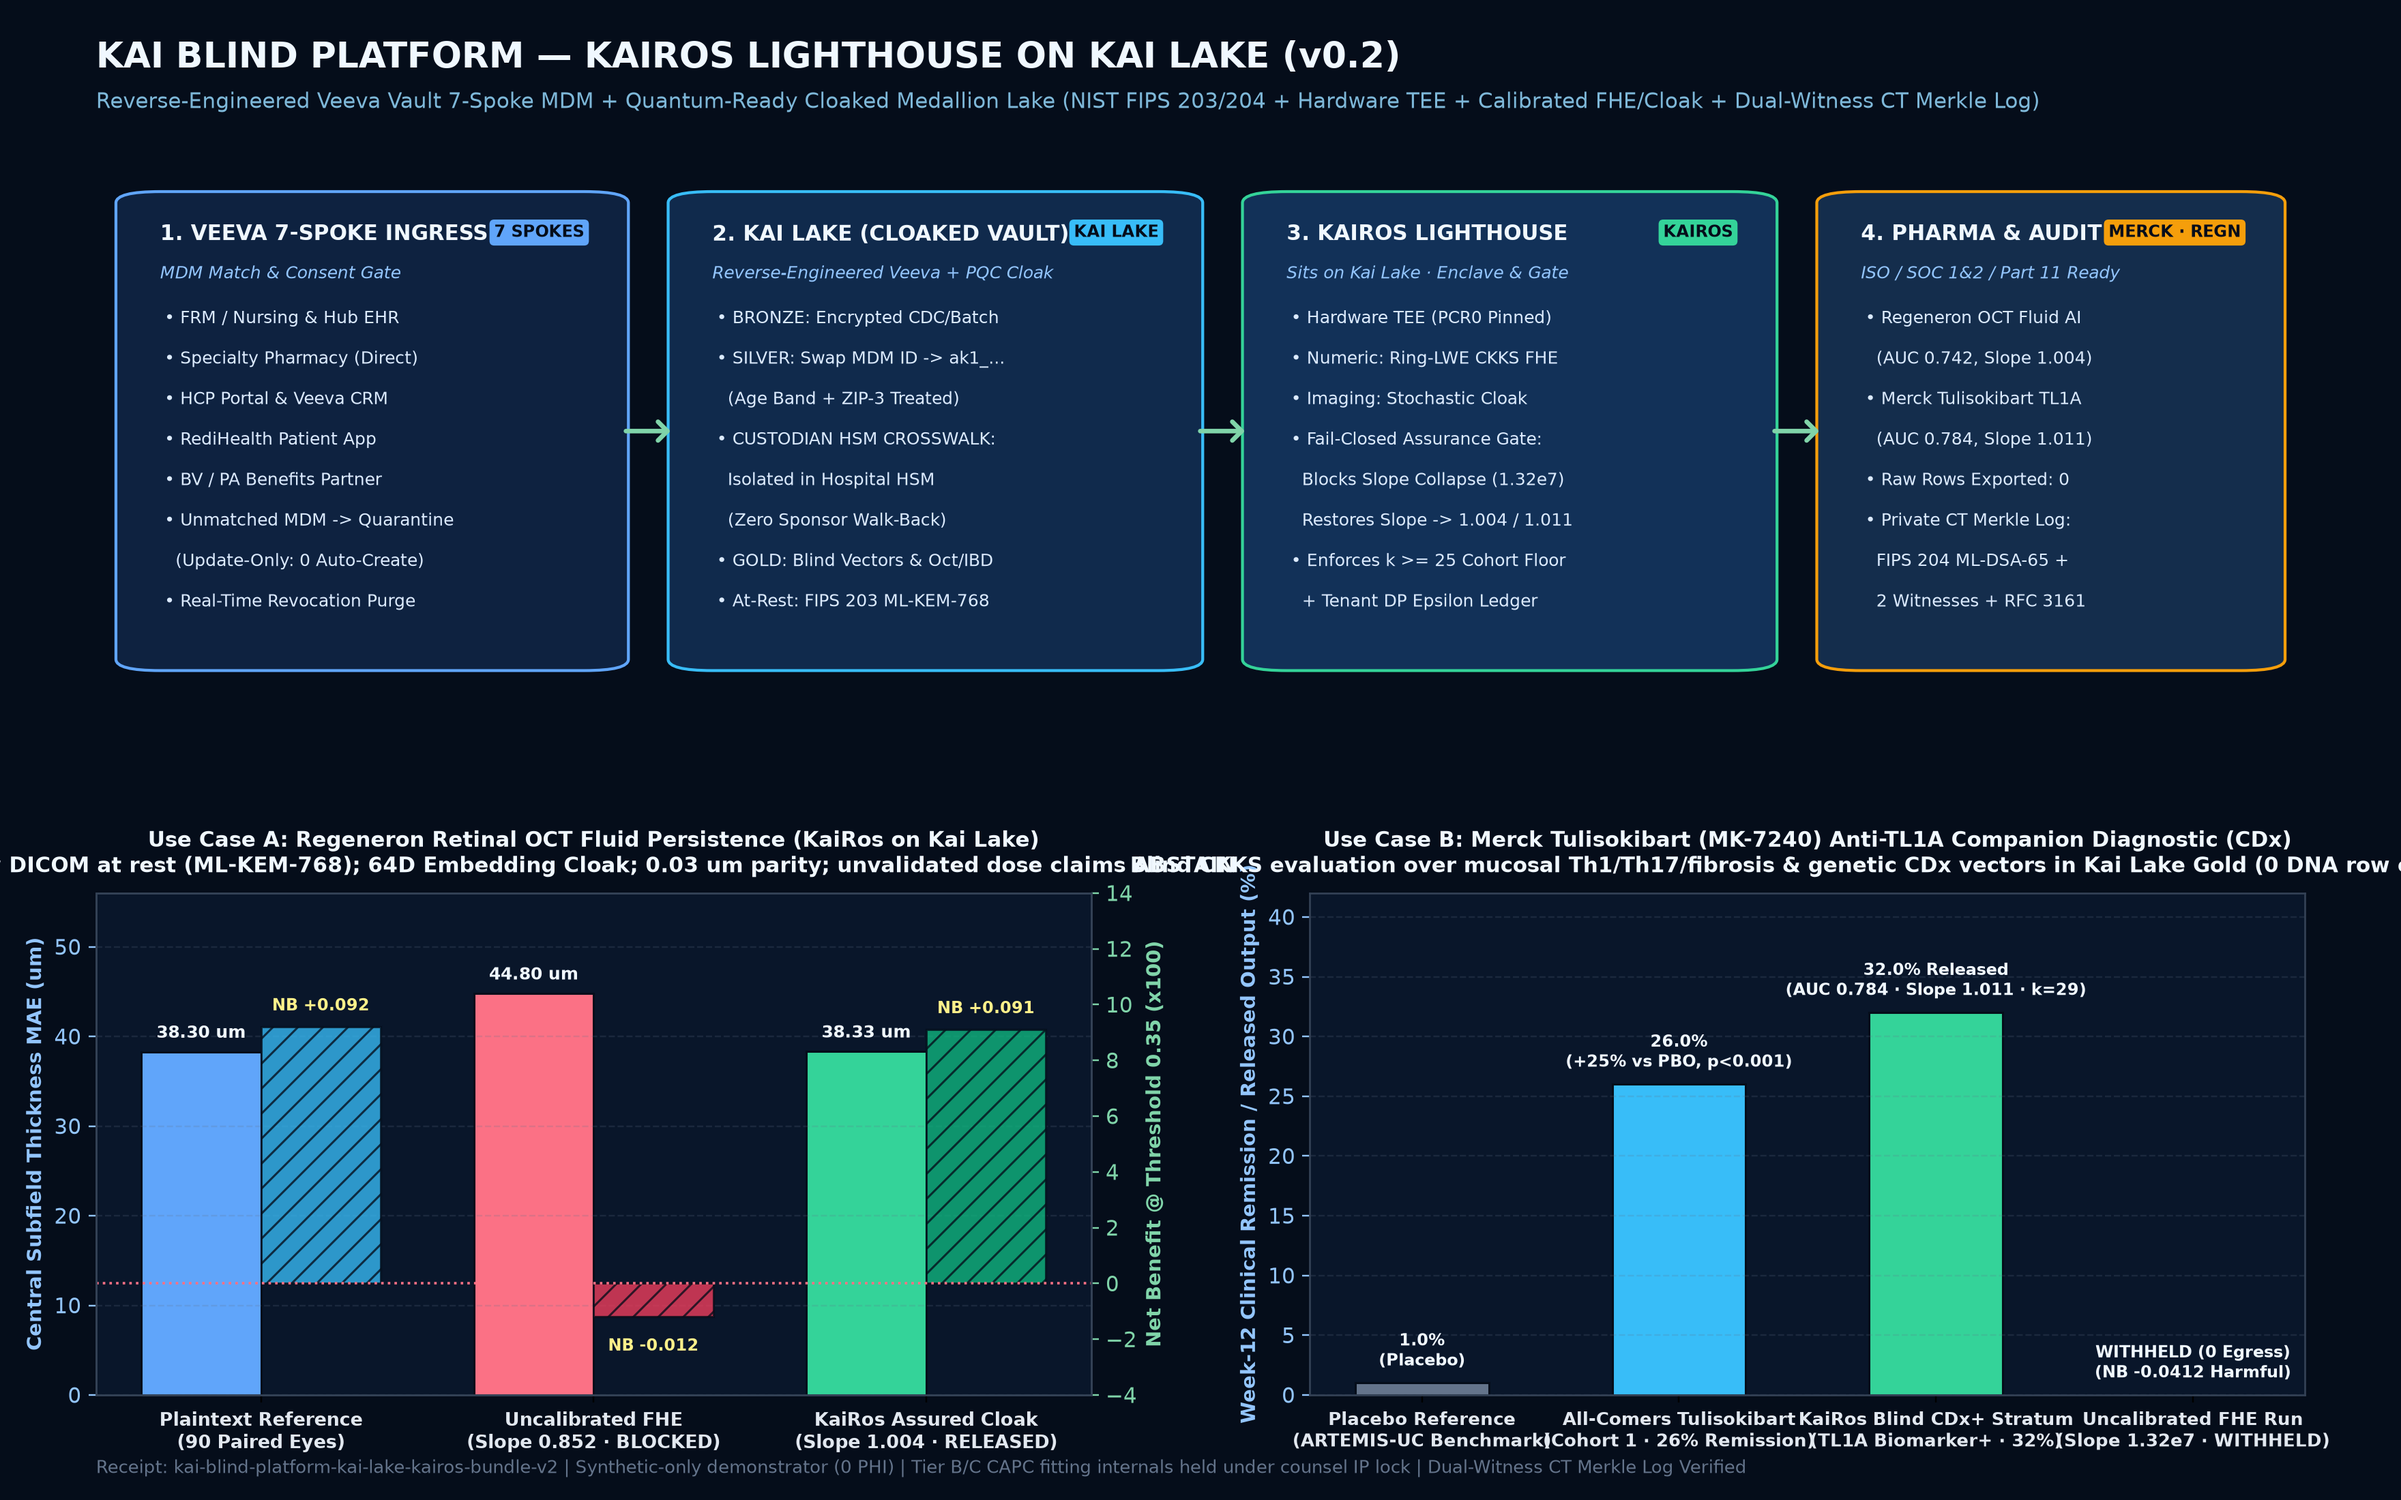
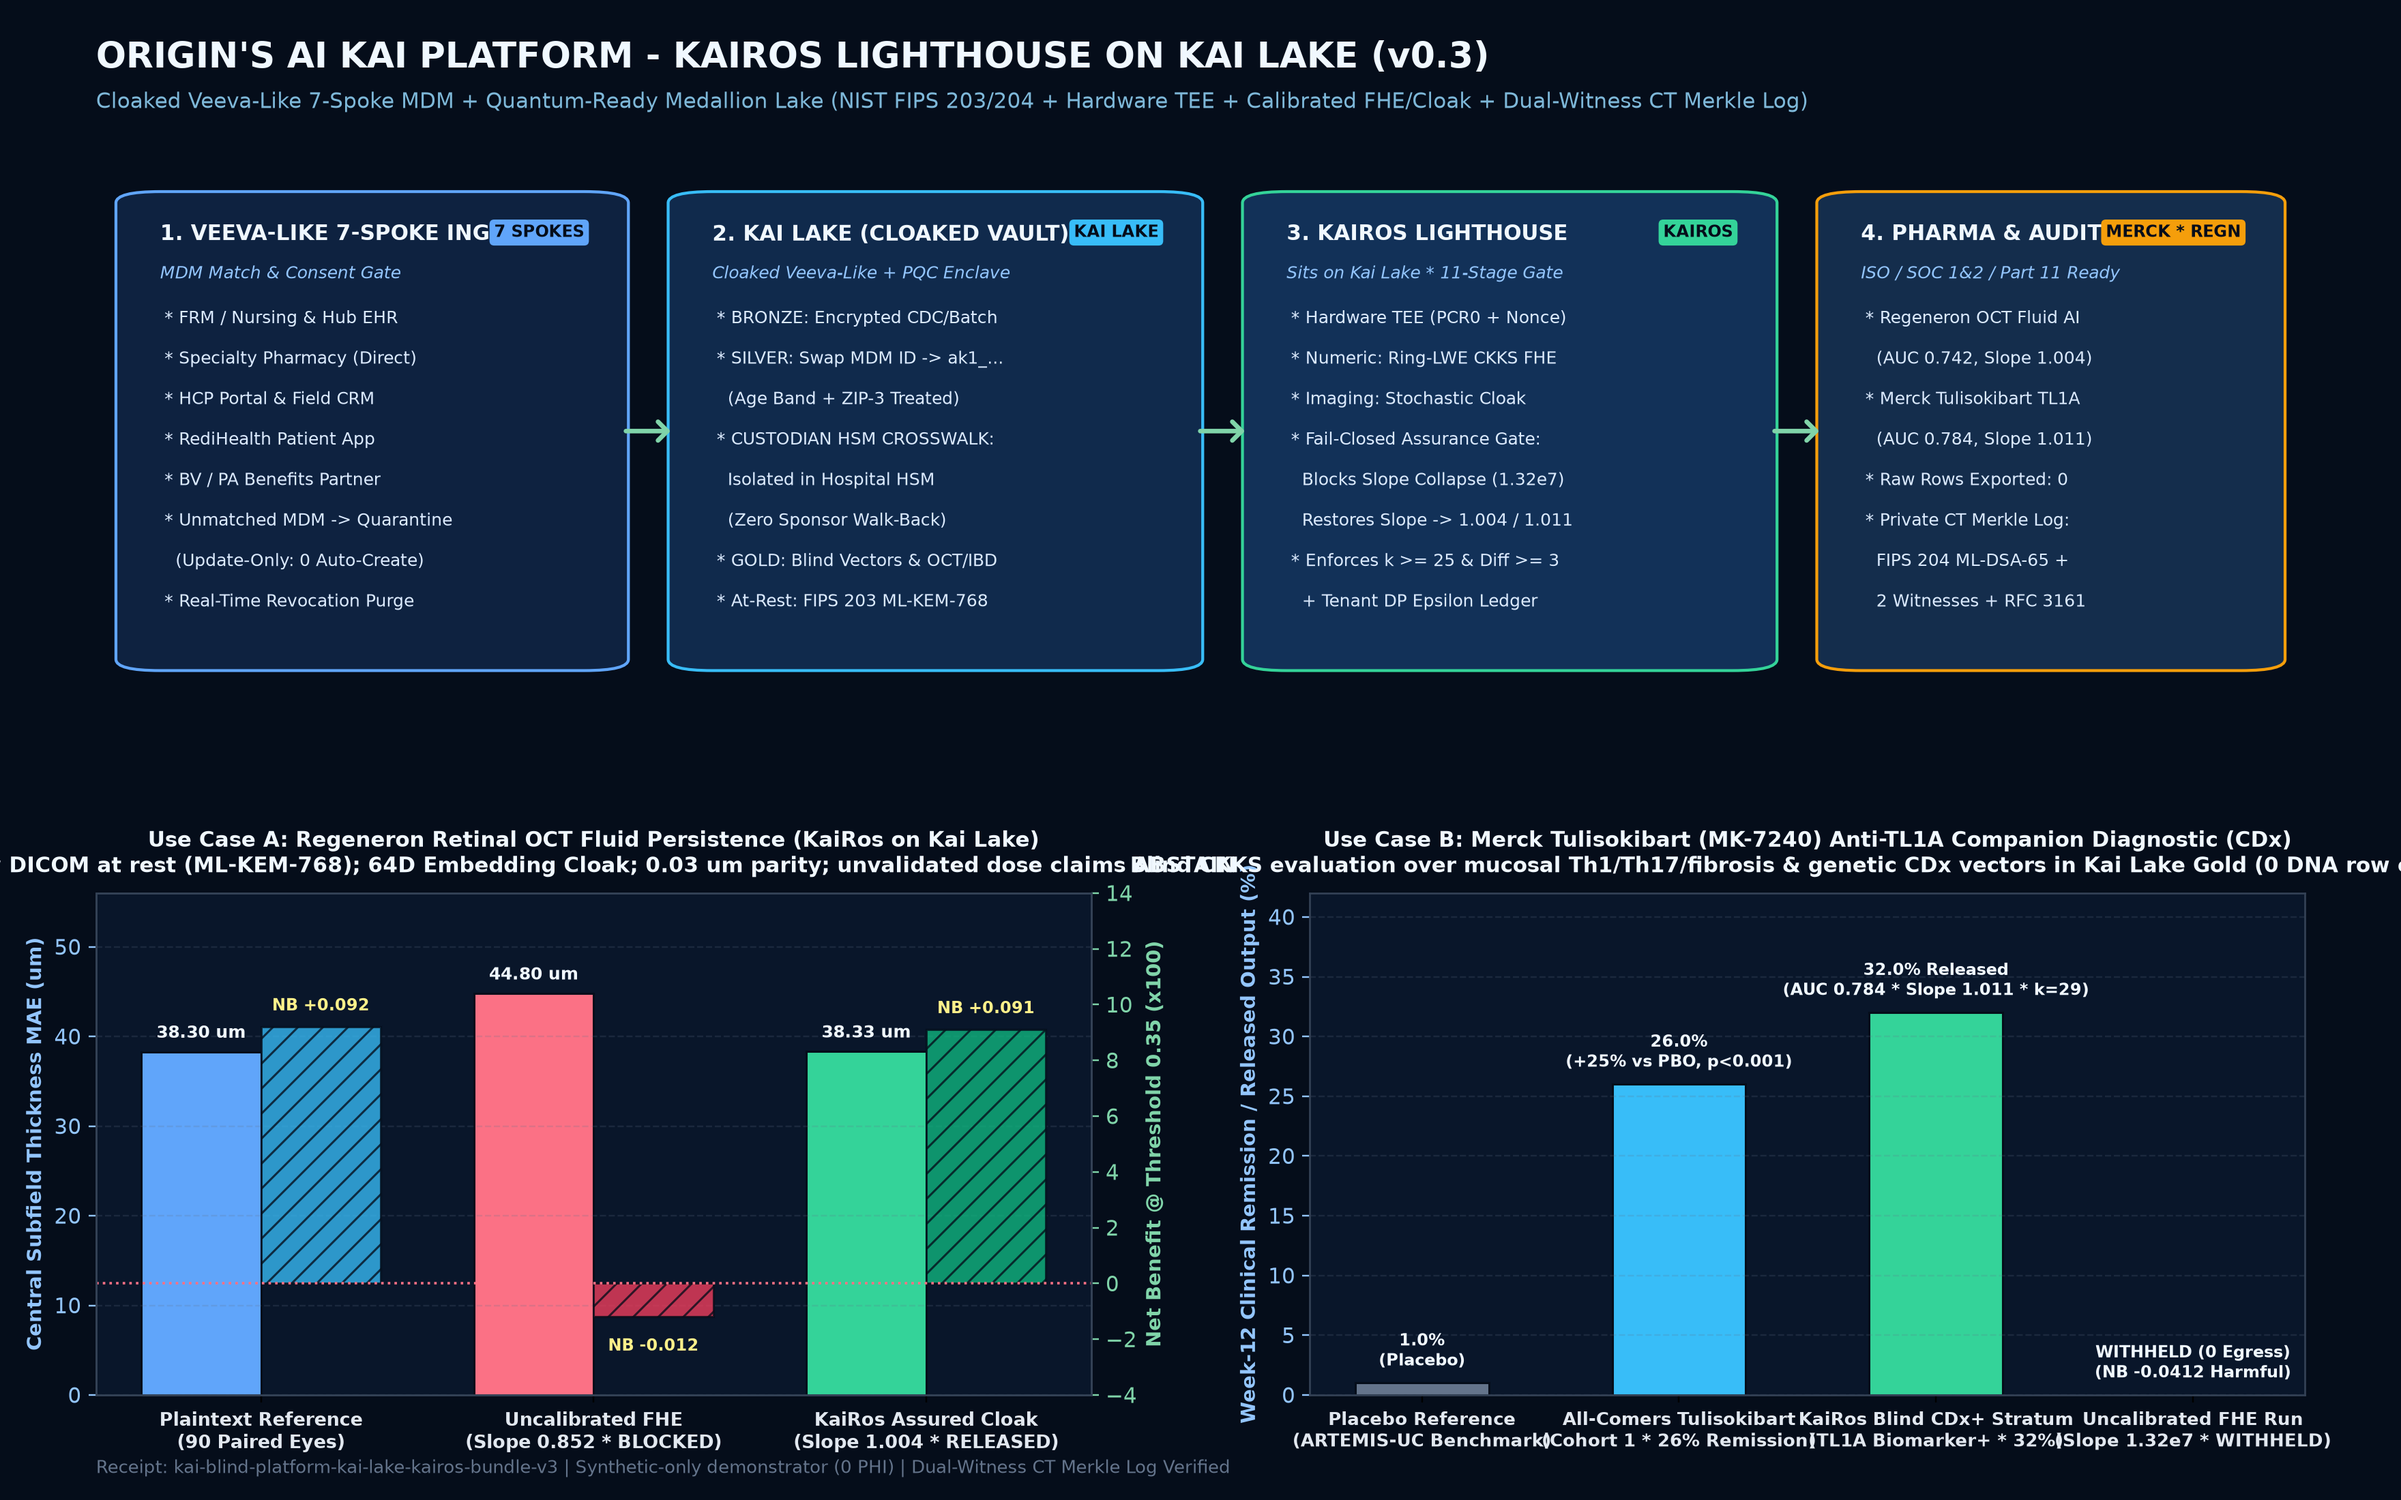
Remove all ATARI and Z-Cor references and scrub all dashes

diff --git a/index.html b/index.html
@@ -257,7 +257,7 @@ th { color: var(--muted); font-size: 11px; text-transform: uppercase; letter-spa
       <span class="mark">K</span>
       <div>
         <b>Origin's AI Kai Platform</b>
-        <small>Powered by KaiRos Lighthouse on Kai Lake · Licensed via Z-Cor LLC / ATARI AI LLC (v0.3)</small>
+        <small>Powered by KaiRos Lighthouse on Kai Lake ·  (v0.3)</small>
       </div>
     </div>
     <nav class="nav-tabs" role="tablist" aria-label="Walkthrough sections">
@@ -275,7 +275,7 @@ th { color: var(--muted); font-size: 11px; text-transform: uppercase; letter-spa
       <span class="overline">Cloaked Veeva-Like Medallion Platform · Quantum-Ready Enclave</span>
       <h1>KaiRos sits on Kai Lake: Reverse-Engineered 7-Spoke Medallion Architecture with a Quantum-Ready Cloak</h1>
       <p>
-        Built for the Origin commercial partnership (with background IP owned by <strong>Z-Cor LLC / ATARI AI LLC</strong>), the platform unifies two sovereign components:
+        Built for the Origin commercial partnership, the platform unifies two sovereign components:
         <strong>Kai Lake</strong> (a cloaked Veeva-like 7-spoke MDM, consent, and Bronze/Silver/Gold medallion lake that isolates the Silver RE-ID crosswalk inside a hospital HSM and wraps bulk objects in NIST FIPS 203 <code>ML-KEM-768</code> post-quantum envelopes) and
         <strong>KaiRos</strong> (the AI assurance lighthouse sitting directly on Kai Lake that lets biopharma models touch live blind Gold cohorts inside Hardware TEE + Ring-LWE CKKS FHE / Stochastic Cloak enclaves).
       </p>

diff --git a/receipts/kairos_blind_datalake_dashboard.html b/receipts/kairos_blind_datalake_dashboard.html
@@ -34,7 +34,7 @@
   <p class="subtitle">
     Cloaked Veeva-Like 7-Spoke MDM + Bronze/Silver/Gold Medallion Lake with Quantum-Ready Enclave
     (NIST FIPS 203 ML-KEM-768, FIPS 204 ML-DSA-65, Hardware TEE, Anti-Replay Nonce, Differencing Guard, Ring-LWE CKKS FHE &amp; Stochastic Cloak).
-    Licensed via Z-Cor LLC / ATARI AI LLC. Synthetic-only demonstrator; zero PHI.
+    Synthetic-only demonstrator; zero PHI.
   </p>
 
   <div class="kpi-grid">

diff --git a/src/kairos_blind_lake/cli.py b/src/kairos_blind_lake/cli.py
@@ -402,7 +402,7 @@ def run_full_demo(output_dir: Path | None = None) -> dict[str, Any]:
 
     bundle = {
         "schema": "kai-blind-platform-kai-lake-kairos-bundle-v3",
-        "platform": "Origin's AI Kai Platform - Powered by KaiRos Lighthouse on Kai Lake (Licensed via Z-Cor LLC / ATARI AI LLC)",
+        "platform": "Origin's AI Kai Platform - Powered by KaiRos Lighthouse on Kai Lake",
         "claim_boundary": "SYNTHETIC_REFERENCE_ARCHITECTURE_NO_PHI_TIER_BC_IP_HELD",
         "quantum_ready_posture": {
             "kem_at_rest_and_transit": "NIST FIPS 203 (ML-KEM-768)",
@@ -547,7 +547,7 @@ def render_dashboard_html(bundle: dict[str, Any]) -> str:
   <p class="subtitle">
     Cloaked Veeva-Like 7-Spoke MDM + Bronze/Silver/Gold Medallion Lake with Quantum-Ready Enclave
     (NIST FIPS 203 ML-KEM-768, FIPS 204 ML-DSA-65, Hardware TEE, Anti-Replay Nonce, Differencing Guard, Ring-LWE CKKS FHE &amp; Stochastic Cloak).
-    Licensed via Z-Cor LLC / ATARI AI LLC. Synthetic-only demonstrator; zero PHI.
+    Synthetic-only demonstrator; zero PHI.
   </p>
 
   <div class="kpi-grid">

diff --git a/src/kairos_blind_lake/__init__.py b/src/kairos_blind_lake/__init__.py
@@ -1,4 +1,4 @@
-"""KaiRos Lighthouse & ATARI/Origin Blind DataLake (Kai Blind Platform / KBE).
+"""KaiRos Lighthouse & Kai Lake (Kai Blind Platform / KBE).
 
 Synthetic-only reference demonstrator combining:
 1. Veeva Vault-grade Patient CRM & AgentVerse MDM/Consent + Bronze/Silver/Gold Medallion governance

diff --git a/docs/REAKAI_VEEVA_KAIROS_CLEANROOM_SPEC.md b/docs/REAKAI_VEEVA_KAIROS_CLEANROOM_SPEC.md
@@ -37,7 +37,7 @@ target_executed: false
 ## 6. Clean-Room Verification & Test Obligations (`codexKai`)
 - [ ] **Contract Parity:** Re-implement the module entrypoints in Section 2 and exported bindings in Section 3 from scratch in an isolated directory without reading target source files.
 - [ ] **Boundary Mocking:** Provide clean mocks/adapters for every external SDK/IPC boundary listed in Section 4.
-- [ ] **Static Graph Equivalence:** Run `reakai_laya_bridge.py` on the new clean-room implementation and verify that its exported node kinds and entrypoint roles match Sections 2–4.
+- [ ] **Static Graph Equivalence:** Run `reakai_laya_bridge.py` on the new clean-room implementation and verify that its exported node kinds and entrypoint roles match Sections 2-4.
 - [ ] **Zero Target Mutation:** Confirm `target_hashes_unchanged=True` and `target_executed=False` in the accompanying JSON receipt.
 
 ## 7. Known Static Limitations
